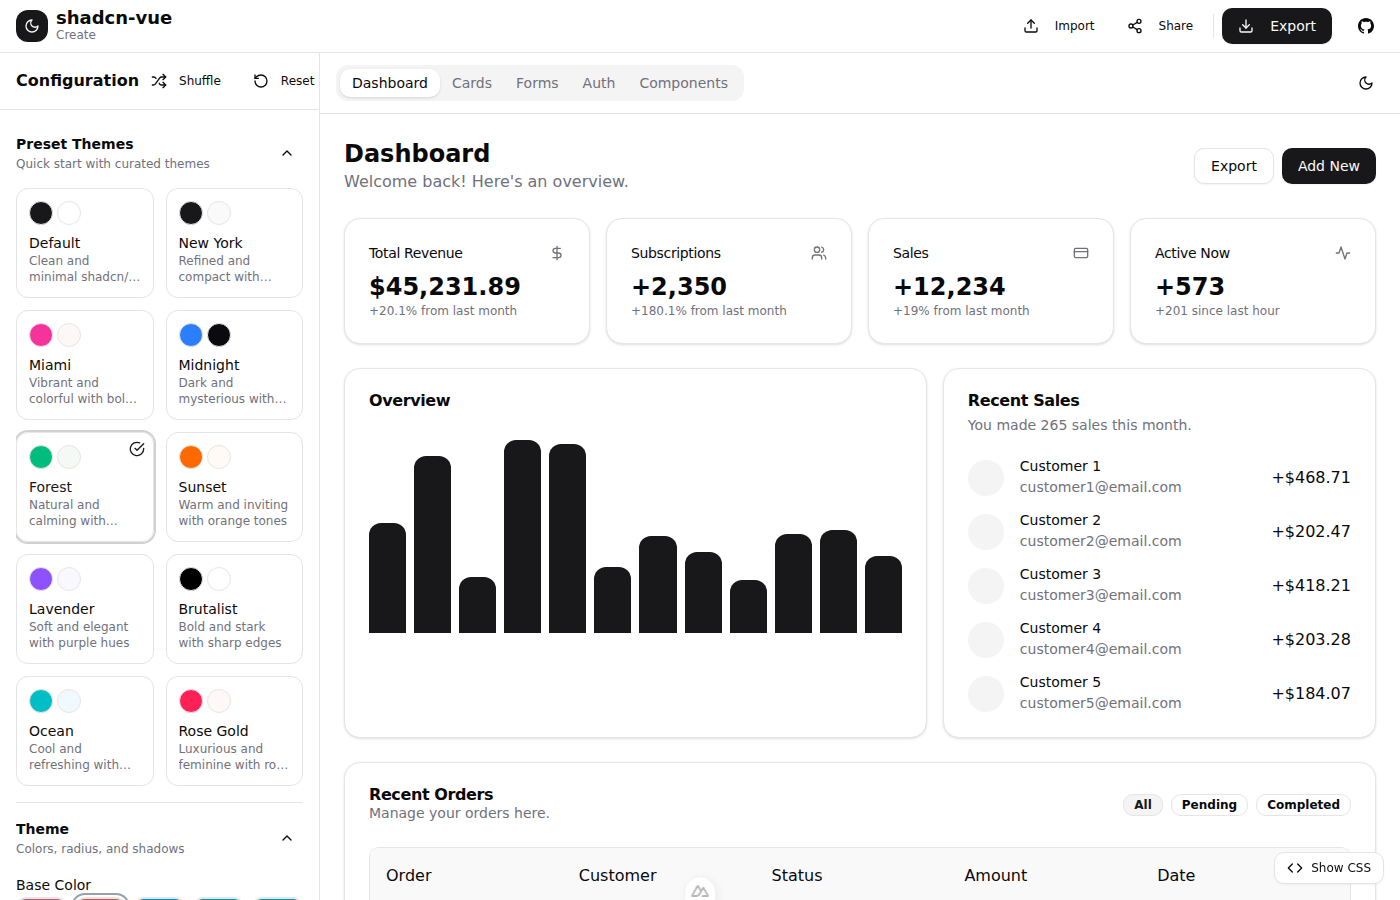
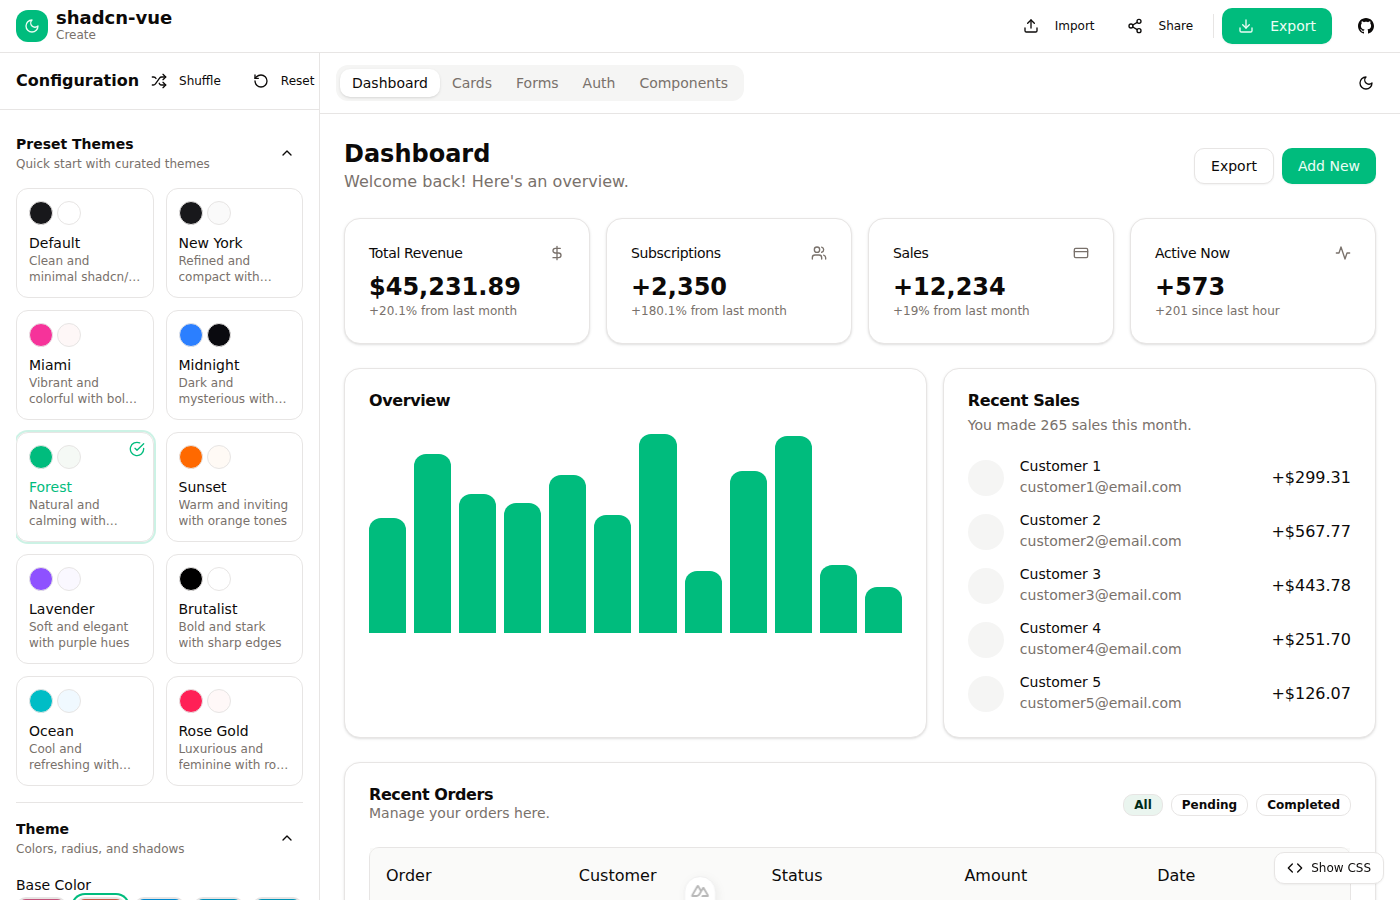
fix: make runtime theme colors work with Tailwind CSS v4
- Update cssGenerator to set --color-* variables directly instead of
  using intermediate variables with @theme mapping
- Tailwind CSS v4's @theme block is processed at build-time, so runtime
  CSS injection must set the final --color-* variables directly
- Retake all preset theme screenshots showing proper color differentiation

diff --git a/utils/cssGenerator.ts b/utils/cssGenerator.ts
@@ -127,83 +127,85 @@ export function generateCSSVariables(config: DesignSystemConfigInput): string {
   const animationDuration = getAnimationDuration(config.components.animationSpeed)
   const borderWidth = getBorderWidth(config.components.borderWidth)
 
+  // Generate CSS that directly sets --color-* variables for runtime application
+  // This bypasses Tailwind's @theme which is compile-time only
   const lightVars = `
-  /* Light mode colors */
-  --background: ${colors.light.background};
-  --foreground: ${colors.light.foreground};
-  --card: ${colors.light.card};
-  --card-foreground: ${colors.light.cardForeground};
-  --popover: ${colors.light.popover};
-  --popover-foreground: ${colors.light.popoverForeground};
-  --primary: ${colors.light.primary};
-  --primary-foreground: ${colors.light.primaryForeground};
-  --secondary: ${colors.light.secondary};
-  --secondary-foreground: ${colors.light.secondaryForeground};
-  --muted: ${colors.light.muted};
-  --muted-foreground: ${colors.light.mutedForeground};
-  --accent: ${colors.light.accent};
-  --accent-foreground: ${colors.light.accentForeground};
-  --destructive: ${colors.light.destructive};
-  --destructive-foreground: ${colors.light.destructiveForeground};
-  --border: ${colors.light.border};
-  --input: ${colors.light.input};
-  --ring: ${colors.light.ring};
+  /* Light mode colors - using --color-* directly for Tailwind CSS v4 */
+  --color-background: ${colors.light.background};
+  --color-foreground: ${colors.light.foreground};
+  --color-card: ${colors.light.card};
+  --color-card-foreground: ${colors.light.cardForeground};
+  --color-popover: ${colors.light.popover};
+  --color-popover-foreground: ${colors.light.popoverForeground};
+  --color-primary: ${colors.light.primary};
+  --color-primary-foreground: ${colors.light.primaryForeground};
+  --color-secondary: ${colors.light.secondary};
+  --color-secondary-foreground: ${colors.light.secondaryForeground};
+  --color-muted: ${colors.light.muted};
+  --color-muted-foreground: ${colors.light.mutedForeground};
+  --color-accent: ${colors.light.accent};
+  --color-accent-foreground: ${colors.light.accentForeground};
+  --color-destructive: ${colors.light.destructive};
+  --color-destructive-foreground: ${colors.light.destructiveForeground};
+  --color-border: ${colors.light.border};
+  --color-input: ${colors.light.input};
+  --color-ring: ${colors.light.ring};
 
   /* Chart colors */
-  --chart-1: ${colors.light.chart1};
-  --chart-2: ${colors.light.chart2};
-  --chart-3: ${colors.light.chart3};
-  --chart-4: ${colors.light.chart4};
-  --chart-5: ${colors.light.chart5};
+  --color-chart-1: ${colors.light.chart1};
+  --color-chart-2: ${colors.light.chart2};
+  --color-chart-3: ${colors.light.chart3};
+  --color-chart-4: ${colors.light.chart4};
+  --color-chart-5: ${colors.light.chart5};
 
   /* Sidebar colors */
-  --sidebar: ${colors.light.sidebar};
-  --sidebar-foreground: ${colors.light.sidebarForeground};
-  --sidebar-primary: ${colors.light.sidebarPrimary};
-  --sidebar-primary-foreground: ${colors.light.sidebarPrimaryForeground};
-  --sidebar-accent: ${colors.light.sidebarAccent};
-  --sidebar-accent-foreground: ${colors.light.sidebarAccentForeground};
-  --sidebar-border: ${colors.light.sidebarBorder};
-  --sidebar-ring: ${colors.light.sidebarRing};`
+  --color-sidebar: ${colors.light.sidebar};
+  --color-sidebar-foreground: ${colors.light.sidebarForeground};
+  --color-sidebar-primary: ${colors.light.sidebarPrimary};
+  --color-sidebar-primary-foreground: ${colors.light.sidebarPrimaryForeground};
+  --color-sidebar-accent: ${colors.light.sidebarAccent};
+  --color-sidebar-accent-foreground: ${colors.light.sidebarAccentForeground};
+  --color-sidebar-border: ${colors.light.sidebarBorder};
+  --color-sidebar-ring: ${colors.light.sidebarRing};`
 
   const darkVars = `
   /* Dark mode colors */
-  --background: ${colors.dark.background};
-  --foreground: ${colors.dark.foreground};
-  --card: ${colors.dark.card};
-  --card-foreground: ${colors.dark.cardForeground};
-  --popover: ${colors.dark.popover};
-  --popover-foreground: ${colors.dark.popoverForeground};
-  --primary: ${colors.dark.primary};
-  --primary-foreground: ${colors.dark.primaryForeground};
-  --secondary: ${colors.dark.secondary};
-  --secondary-foreground: ${colors.dark.secondaryForeground};
-  --muted: ${colors.dark.muted};
-  --muted-foreground: ${colors.dark.mutedForeground};
-  --accent: ${colors.dark.accent};
-  --accent-foreground: ${colors.dark.accentForeground};
-  --destructive: ${colors.dark.destructive};
-  --destructive-foreground: ${colors.dark.destructiveForeground};
-  --border: ${colors.dark.border};
-  --input: ${colors.dark.input};
-  --ring: ${colors.dark.ring};
+  --color-background: ${colors.dark.background};
+  --color-foreground: ${colors.dark.foreground};
+  --color-card: ${colors.dark.card};
+  --color-card-foreground: ${colors.dark.cardForeground};
+  --color-popover: ${colors.dark.popover};
+  --color-popover-foreground: ${colors.dark.popoverForeground};
+  --color-primary: ${colors.dark.primary};
+  --color-primary-foreground: ${colors.dark.primaryForeground};
+  --color-secondary: ${colors.dark.secondary};
+  --color-secondary-foreground: ${colors.dark.secondaryForeground};
+  --color-muted: ${colors.dark.muted};
+  --color-muted-foreground: ${colors.dark.mutedForeground};
+  --color-accent: ${colors.dark.accent};
+  --color-accent-foreground: ${colors.dark.accentForeground};
+  --color-destructive: ${colors.dark.destructive};
+  --color-destructive-foreground: ${colors.dark.destructiveForeground};
+  --color-border: ${colors.dark.border};
+  --color-input: ${colors.dark.input};
+  --color-ring: ${colors.dark.ring};
 
   /* Chart colors */
-  --chart-1: ${colors.dark.chart1};
-  --chart-2: ${colors.dark.chart2};
-  --chart-3: ${colors.dark.chart3};
-  --chart-4: ${colors.dark.chart4};
-  --chart-5: ${colors.dark.chart5};
+  --color-chart-1: ${colors.dark.chart1};
+  --color-chart-2: ${colors.dark.chart2};
+  --color-chart-3: ${colors.dark.chart3};
+  --color-chart-4: ${colors.dark.chart4};
+  --color-chart-5: ${colors.dark.chart5};
 
   /* Sidebar colors */
-  --sidebar: ${colors.dark.sidebar};
-  --sidebar-foreground: ${colors.dark.sidebarForeground};
-  --sidebar-primary: ${colors.dark.sidebarPrimary};
-  --sidebar-primary-foreground: ${colors.dark.sidebarPrimaryForeground};
-  --sidebar-accent: ${colors.dark.sidebarAccent};
-  --sidebar-accent-foreground: ${colors.dark.sidebarAccentForeground};
-  --sidebar-border: ${colors.dark.sidebarBorder};
-  --sidebar-ring: ${colors.dark.sidebarRing};`
+  --color-sidebar: ${colors.dark.sidebar};
+  --color-sidebar-foreground: ${colors.dark.sidebarForeground};
+  --color-sidebar-primary: ${colors.dark.sidebarPrimary};
+  --color-sidebar-primary-foreground: ${colors.dark.sidebarPrimaryForeground};
+  --color-sidebar-accent: ${colors.dark.sidebarAccent};
+  --color-sidebar-accent-foreground: ${colors.dark.sidebarAccentForeground};
+  --color-sidebar-border: ${colors.dark.sidebarBorder};
+  --color-sidebar-ring: ${colors.dark.sidebarRing};`
 
   const sharedVars = `
   /* Shared variables */
@@ -232,43 +234,43 @@ export function generateCSSVariables(config: DesignSystemConfigInput): string {
   return `@import "tailwindcss";
 
 @theme {
-  /* Color variables - Light mode defaults */
-  --color-background: var(--background);
-  --color-foreground: var(--foreground);
-  --color-card: var(--card);
-  --color-card-foreground: var(--card-foreground);
-  --color-popover: var(--popover);
-  --color-popover-foreground: var(--popover-foreground);
-  --color-primary: var(--primary);
-  --color-primary-foreground: var(--primary-foreground);
-  --color-secondary: var(--secondary);
-  --color-secondary-foreground: var(--secondary-foreground);
-  --color-muted: var(--muted);
-  --color-muted-foreground: var(--muted-foreground);
-  --color-accent: var(--accent);
-  --color-accent-foreground: var(--accent-foreground);
-  --color-destructive: var(--destructive);
-  --color-destructive-foreground: var(--destructive-foreground);
-  --color-border: var(--border);
-  --color-input: var(--input);
-  --color-ring: var(--ring);
+  /* Theme configuration for Tailwind CSS v4 */
+  --color-background: var(--color-background);
+  --color-foreground: var(--color-foreground);
+  --color-card: var(--color-card);
+  --color-card-foreground: var(--color-card-foreground);
+  --color-popover: var(--color-popover);
+  --color-popover-foreground: var(--color-popover-foreground);
+  --color-primary: var(--color-primary);
+  --color-primary-foreground: var(--color-primary-foreground);
+  --color-secondary: var(--color-secondary);
+  --color-secondary-foreground: var(--color-secondary-foreground);
+  --color-muted: var(--color-muted);
+  --color-muted-foreground: var(--color-muted-foreground);
+  --color-accent: var(--color-accent);
+  --color-accent-foreground: var(--color-accent-foreground);
+  --color-destructive: var(--color-destructive);
+  --color-destructive-foreground: var(--color-destructive-foreground);
+  --color-border: var(--color-border);
+  --color-input: var(--color-input);
+  --color-ring: var(--color-ring);
 
   /* Chart colors */
-  --color-chart-1: var(--chart-1);
-  --color-chart-2: var(--chart-2);
-  --color-chart-3: var(--chart-3);
-  --color-chart-4: var(--chart-4);
-  --color-chart-5: var(--chart-5);
+  --color-chart-1: var(--color-chart-1);
+  --color-chart-2: var(--color-chart-2);
+  --color-chart-3: var(--color-chart-3);
+  --color-chart-4: var(--color-chart-4);
+  --color-chart-5: var(--color-chart-5);
 
   /* Sidebar colors */
-  --color-sidebar: var(--sidebar);
-  --color-sidebar-foreground: var(--sidebar-foreground);
-  --color-sidebar-primary: var(--sidebar-primary);
-  --color-sidebar-primary-foreground: var(--sidebar-primary-foreground);
-  --color-sidebar-accent: var(--sidebar-accent);
-  --color-sidebar-accent-foreground: var(--sidebar-accent-foreground);
-  --color-sidebar-border: var(--sidebar-border);
-  --color-sidebar-ring: var(--sidebar-ring);
+  --color-sidebar: var(--color-sidebar);
+  --color-sidebar-foreground: var(--color-sidebar-foreground);
+  --color-sidebar-primary: var(--color-sidebar-primary);
+  --color-sidebar-primary-foreground: var(--color-sidebar-primary-foreground);
+  --color-sidebar-accent: var(--color-sidebar-accent);
+  --color-sidebar-accent-foreground: var(--color-sidebar-accent-foreground);
+  --color-sidebar-border: var(--color-sidebar-border);
+  --color-sidebar-ring: var(--color-sidebar-ring);
 
   /* Radius */
   --radius-sm: var(--radius-sm);
@@ -292,12 +294,12 @@ ${darkVars}
 
 /* Base styles */
 * {
-  border-color: var(--border);
+  border-color: var(--color-border);
 }
 
 body {
-  background-color: var(--background);
-  color: var(--foreground);
+  background-color: var(--color-background);
+  color: var(--color-foreground);
   font-family: var(--font-sans);
 }
 `
